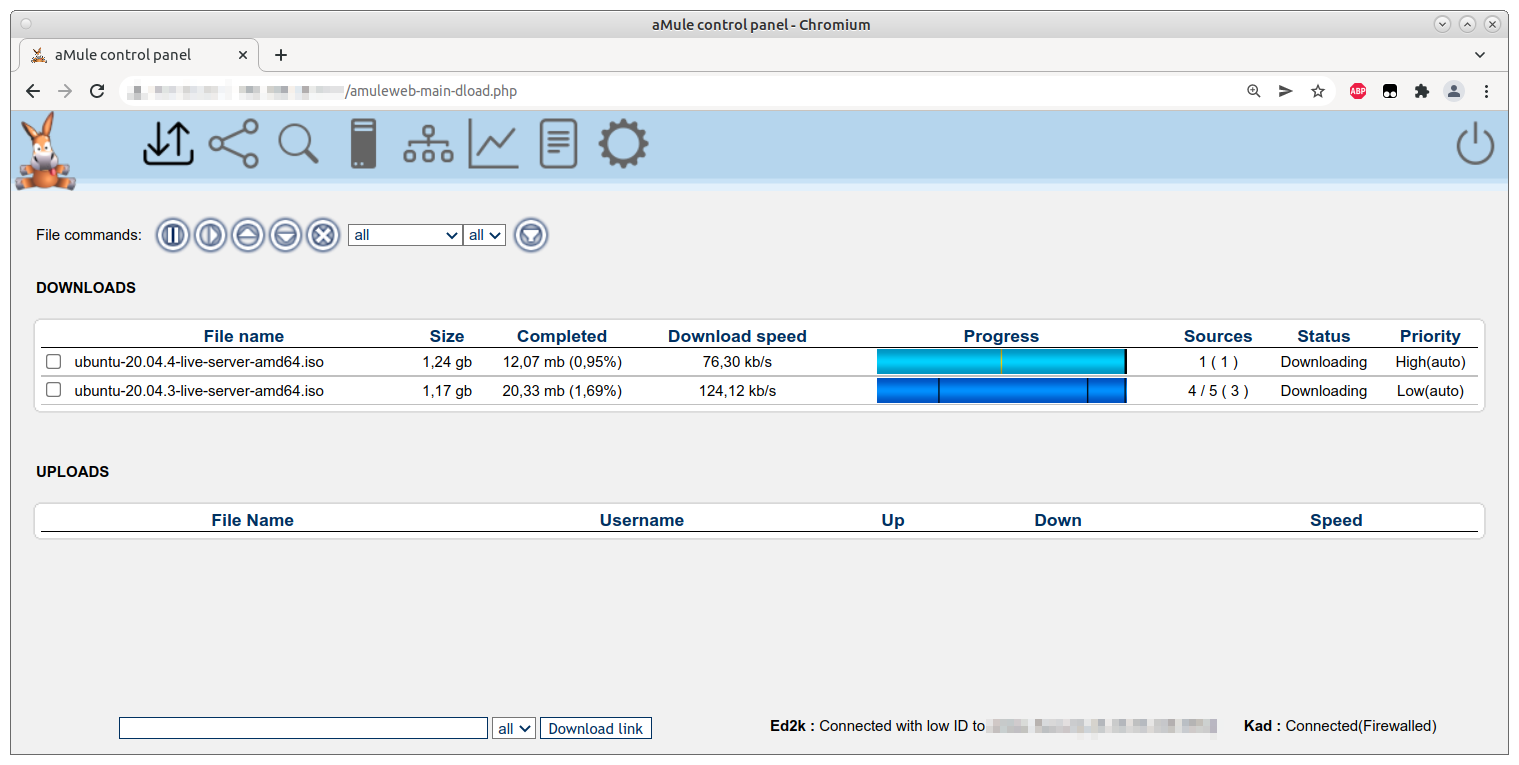
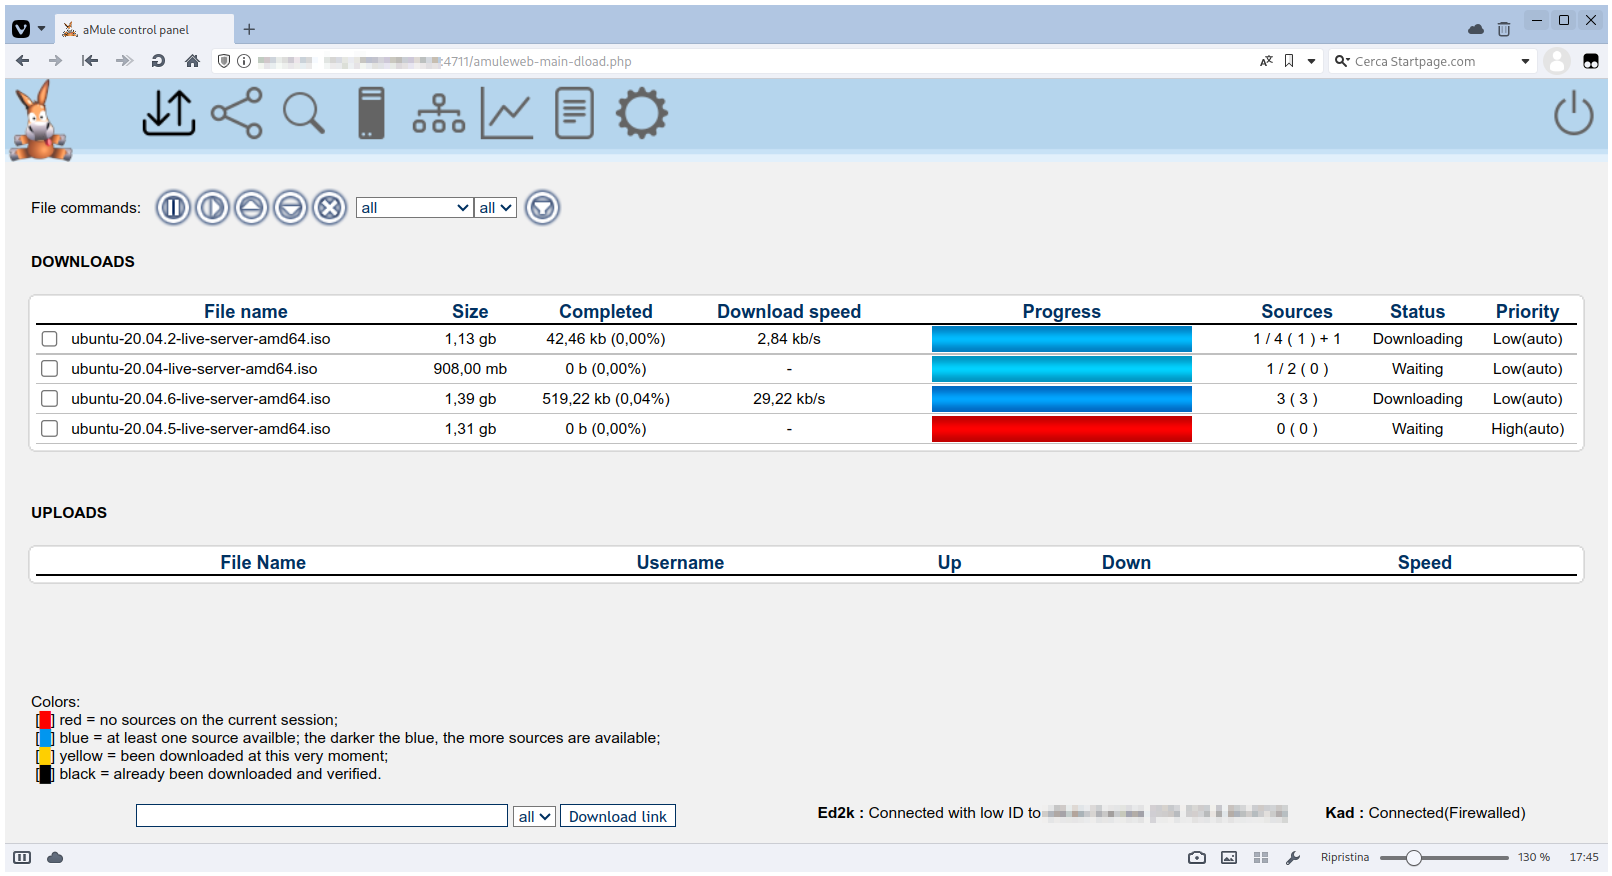
download page: added color description

diff --git a/amuleweb-main-dload.php b/amuleweb-main-dload.php
@@ -253,8 +253,7 @@ function formCommandSubmit(command)
   <tr>
     <td width="24" background="images/tab_left.png">&nbsp;</td>
     <td bgcolor="#FFFFFF"><table width="100%" border="0" align="center" cellpadding="0" cellspacing="0">
-                     
-          <tr> 
+          <tr>
                   <th>&nbsp;</th>
                   <th><a href="amuleweb-main-dload.php?sort=name">File name</a></th>
                   <th><a href="amuleweb-main-dload.php?sort=size">Size</a></th>
@@ -439,16 +438,15 @@ function formCommandSubmit(command)
 	  	<td colspan="3" style="padding-left: 20px; padding-top: 10px"><b>UPLOADS</b></td>
 	</tr>
 
-        <tr> 
+        <tr>
           <td width="24"><img src="images/tab_top_left.png" width="24" height="24"></td>
           <td background="images/tab_top.png">&nbsp;</td>
           <td width="24"><img src="images/tab_top_right.png" width="24" height="24"></td>
         </tr>
-        <tr> 
+        <tr>
           <td width="24" background="images/tab_left.png">&nbsp;</td>
           <td bgcolor="#FFFFFF"><table width="100%" border="0" align="center" cellpadding="0" cellspacing="0" class="doad-table">
-              
-        <tr> 
+        <tr>
                 <td>&nbsp;</td>
                 <th>File Name</th>
                 <th>Username</th>
@@ -504,6 +502,13 @@ function formCommandSubmit(command)
       
     </td>
   </tr>
+  <tr><td style="padding-left: 20px; padding-top: 10px" colspan="2">
+  Colors:<br>
+  &nbsp;[<span style="color:#fe0101">&block;</span>] red = no sources on the current session;<br>
+  &nbsp;[<span style="color:#0196ef">&block;</span>] blue = at least one source availble; the darker the blue, the more sources are available;<br>
+  &nbsp;[<span style="color:#fecf01">&block;</span>] yellow = been downloaded at this very moment;<br>
+  &nbsp;[<span style="color:#000000">&block;</span>] black = already been downloaded and verified.
+  </td></tr>
   <tr valign="bottom"> 
     <td height="25" colspan="2"> <table width="100%" height="40" border="0" cellpadding="0" cellspacing="0">
         <tr align="center" valign="middle"> 
